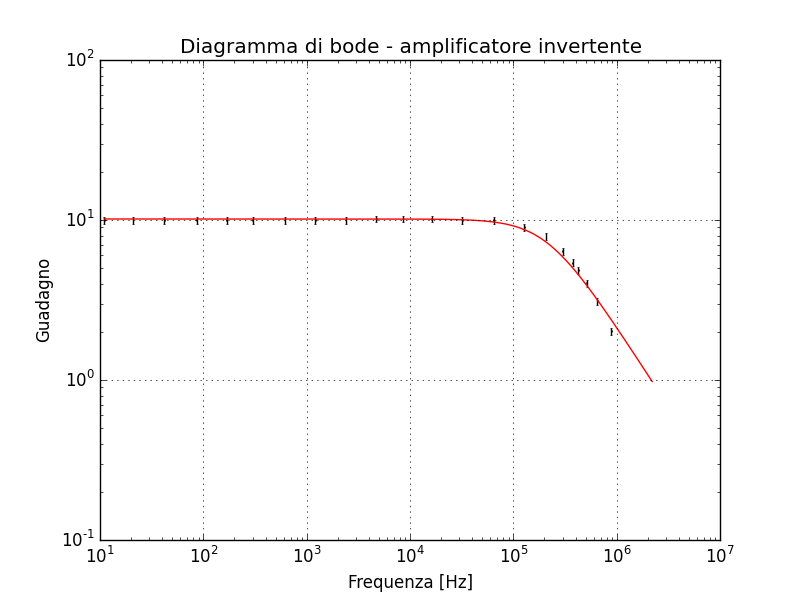
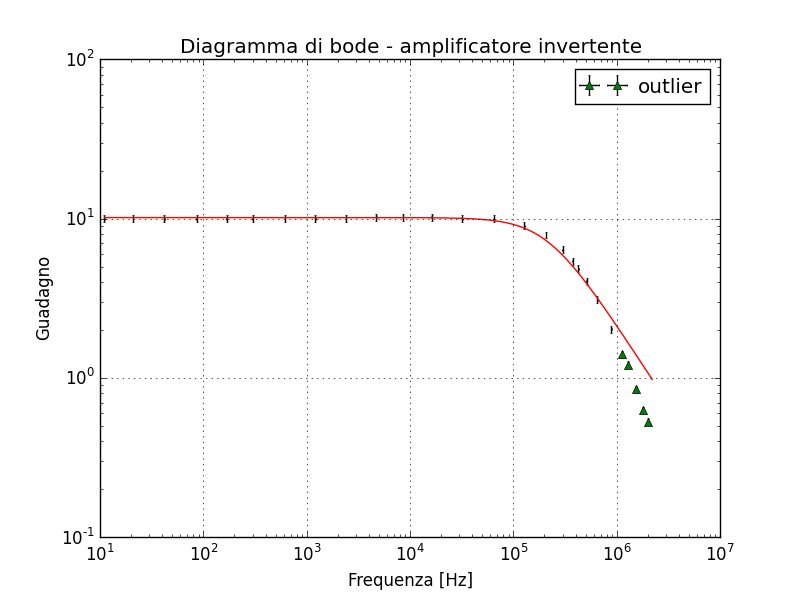
stocazzo allo stocazzo

diff --git a/Esercitazione6/relazione/Relazione6.tex b/Esercitazione6/relazione/Relazione6.tex
@@ -77,7 +77,7 @@ I dati mostrano un chiaro comportamento lineare fino a tensioni in ingresso di $
 Il guadagno misurato è compatibile con quello atteso dalla teoria ($|A_v|^{exp} = 9.96 \pm 0.13$) a meno di $2\sigma$.
 \begin{figure}[h!]
 	\centering
-	\includegraphics[width=0.8\textwidth]{../grafici/fit_inv_amp_gain.pdf}
+	\includegraphics[width=0.85\textwidth]{../grafici/fit_inv_amp_gain.pdf}
 	\caption{Guadagno amplificatore invertente}
 	\label{fig:inv_amp_gain}
 \end{figure}
@@ -95,23 +95,47 @@ Si è proceduto alla misura della resistenza di ingresso, per farlo si è posta 
 L'impedenza di ingresso misurata è quindi $R_{IN}=\unit{10.0 \pm 1.0}{k\ohm}$, ampiamente compatibile con quella attesa pari a $R_1$.
 
 \subsection{Risposta in frequenza}
-Si è fittata la risposta in frequenza dell'amplificatore invertente. Si riportano i dati relativi in \tablename{\ref{tab:inv_amp_f_domain}}, in appendice, e il grafico relativo in \figurename{\ref{fig:invamp}}, mostrato di seguito:
+Si è studiata quindi la risposta in frequenza del circuito, per una tensione picco-picco in ingresso pari a $V = \unit{496 \pm 12}{\milli\volt}$. I dati acquisiti sono riportati in appendice in \tablename{\ref{tab:inv_amp_f_domain}}.
+
+Dal grafico in \figurename{\ref{palle}} è chiaro che il guadagno è costante fino ad un frequenza di $\sim \unit{200}{k\hertz}$, da questo punto in poi il guadagno sembra calare linearmente con un tasso di $\sim \unit{20}{\deci\bel /decade}$ per un primo tratto fino a $f \sim {600}{k\hertz}$, per frequenze superiori la pendenza sembra aumentare.
+
+Si è provato a fittare questo comportamento (il grafico del fit è riportato in \figurename{\ref{rette}}), le pendenze fittate sono state $p_1 = \unit{-20.1 \pm 1.8}{\deci\bel/decade}$ per il primo tratto e $p_2 =\unit{-33.3 \pm 1.2}{\deci\bel/decade}$ per il secondo tratto.
 
 \begin{figure}[h!]
 	\centering
-	\includegraphics[width=0.5\textwidth]{../grafici/fit_inv_amp_f_domain.pdf}
-	\caption{Grafico del fit }
-	\label{fig:invamp}
+	\includegraphics[width=0.8\textwidth]{../grafici/fit_rette.pdf}
+	\caption{fit del guadagno per alte frequenze}
+	\label{rette}
 \end{figure}
 
+Si è deciso quindi di fittare la risposta in frequenza dell'amplificatore invertente con il modello di un filtro passa basso escludendo i dati presi a frequenze sopra $\sim \unit{600}{k\hertz}$ che come visto prima non rispettano la legge di decrescita attesa.  Si riportano di seguito i risultati del fit e il grafico.
+
+\begin{table}[h!]
+	\centering
+	\begin{tabular}{ccc}
+	$|A_v| = 10.15 \pm 0.13$	&	$f_0 = \unit{214 \pm 6}{k\hertz}$	&	$\chi^2/ndof = 23 / 20$\\
+	\end{tabular}
+\end{table}
+
+\begin{figure}[h!]
+	\centering
+	\includegraphics[width=0.8\textwidth]{../grafici/fit_inv_amp_f_domain.pdf}
+	\caption{Grafico dei dati e del fit}
+	\label{palle}
+\end{figure}
+
+Il guadagno di centro banda fittato è compatibile con quello atteso dalla teoria e con quello misurato al punto precedente.
+L'andamento ad alte frequenze è probabilmente influenzato dallo slew rate che in questo range distorce significativamente il segnale.
+\pagebreak
 \subsection{Slew rate}
-Si è misurato lo slew rate dell'opamp inviando in ingresso un'onda quadra di frequenza $\unit{1000 \pm 10}{\hertz}$, ottenendo una discesa pari a  $\Delta V = \unit{9.44 \pm 0.24}$ in un tempo $\Delta t = \unit{740 \pm 7}{\nano\second}$.
+Si è misurato lo slew rate dell'op-amp inviando in ingresso un'onda quadra di frequenza $\unit{1000 \pm 10}{\hertz}$, ottenendo una discesa pari a  $\Delta V = \unit{9.44 \pm 0.24}{\volt}$ in un tempo $\Delta t = \unit{740 \pm 7}{\nano\second}$.
 
 Lo slew rate misurato è quindi pari a $\unit{12.8 \pm 0.3}{\volt/\micro\second}$, mentre il datasheet riporta un valore tipico di $\unit{13}{\volt/\micro\second}$.
 
 %gli errori sulle frequenze li abbiamo messi sempre all'1%?
 
 \section{Amplificatore non invertente}
+
 Si è montato l'amplificatore non invertente in \figurename{\ref{circuito_non_inv}} con i seguenti valori dei componenti:
 
 \begin{table}[h!]
@@ -121,7 +145,29 @@ Si è montato l'amplificatore non invertente in \figurename{\ref{circuito_non_in
 	\end{tabular}
 \end{table}
 
-Si sono misurati al variare della posizione del potenziometro il guadagno (a basse frequenze $f < \unit{100}{\hertz}$, dove sicuramente l'amplificatore è in regime lineare) e la frequenza di taglio superiore. I dati acquisiti sono riportati in appendice in \tablename{\ref{tab:gain_bandwidth}}
+Si sono misurati al variare della posizione del potenziometro il guadagno (misurato a basse frequenze $f < \unit{100}{\hertz}$, dove sicuramente l'amplificatore è in regime lineare) e la frequenza di taglio superiore. I dati acquisiti sono riportati in appendice in \tablename{\ref{tab:gain_bandwidth}}. Per verificare che il prodotto banda-guadagno rimanesse costante si è fittato con una retta il guadagno (in decibel) in funzione del logaritmo della frequenza. I risultati e i grafici del fit sono riportati di seguito (a è il coefficiente angolare e b l'intercetta):
+
+\begin{table}[h!]
+	\centering
+	\begin{tabular}{ccc}
+		$a = \unit{-20.49 \pm 0.18}{\deci\bel /decade}$  &  $b = \unit{128.8 \pm 0.8}{\deci\bel}$ & $\chi^2/ndof= 14.8 / 13$
+	\end{tabular}
+\end{table}
+
+\begin{figure}[h!]
+	\centering
+	\includegraphics[width=0.8\textwidth]{../grafici/fit_gain_bandwidth.pdf}
+	\caption{Grafico e fit banda-guadagno}
+\end{figure}
+
+Il prodotto banda guadagno, ovvero l'intersezione della retta fittata con l'asse a $\unit{0}{\deci\bel}$ varrà perciò\footnote{propagando l'errore tenendo conto della covarianza}: $Af_h=\unit{1.93\pm0.12}{\mega\hertz}$, che è compatibile con il grafico presente nel datasheet riportato in \figurename{\ref{fig:open_loop_stocazzo}}.
+
+\begin{figure}[h!]
+	\centering
+	\includegraphics[width=0.4\textwidth]{../grafici/open_loop_frequency.jpg}
+	\caption{Grafico guadagno-banda dal datasheet}
+	\label{fig:open_loop_stocazzo}
+\end{figure}
 
 \section{Circuito integratore}
 
@@ -159,7 +205,7 @@ Si riportano nella tabella di seguito i risultati del fit:
 \centering
 \begin{tabular}{c|ccc}
 amplitude	&	$A_0 = 9.71 \pm 0.22$	&	$f_0 = \unit{404 \pm 12}{\hertz}$	&	$\chi^2/ndof = 15.6 / 12$\\
-phase		& &	$f_0 = \unit{350 \pm 40}{\hertz}$	&	$\chi^2/ndof = 10.7 / 12$
+phase		& &	$f_0 = \unit{350 \pm 40}{\hertz}$	&	$\chi^2/ndof = 10.7 / 13$
 \end{tabular}
 \end{table}
 
@@ -170,7 +216,7 @@ phase		& &	$f_0 = \unit{350 \pm 40}{\hertz}$	&	$\chi^2/ndof = 10.7 / 12$
 \item $f_0$ è la frequenza di taglio dell'integratore.
 \end{itemize}
 
-Si nota dunque che le due misure della frequenza di taglio sono compatibili, a meno di poco più di $1\sigma$.
+Si nota dunque che le due misure della frequenza di taglio sono compatibili, a meno di $\sim 1\sigma$.
 
 \subsection{Risposta all'onda quadra}
 

diff --git a/Esercitazione6/Esercitazione6.py b/Esercitazione6/Esercitazione6.py
@@ -28,7 +28,7 @@ Ylab="Tensione di output $V_{OUT}$ [$V$]"
 
 tab=["$V_{IN}$ [$V$]","$V_{OUT}$ [$V$]"]
 
-fit(dir,file,unit,f,p0,titolo,Xlab,Ylab,XYfun,table=True,tab=tab, out=True)
+#fit(dir,file,unit,f,p0,titolo,Xlab,Ylab,XYfun,table=True,tab=tab, out=True)
 
 ###########################################################################
 
@@ -55,7 +55,7 @@ Ylab="Guadagno"
 tab=["Frequenza [Hz]","$V_{OUT}$ [$V$]"]
 xlimp=[100,110]
 
-#fit(dir,file,unit,f,p0,titolo,Xlab,Ylab,XYfun,table=True,tab=tab, Xscale="log",Yscale="log",xlimp=xlimp,out=True)
+fit(dir,file,unit,f,p0,titolo,Xlab,Ylab,XYfun,table=True,tab=tab, Xscale="log",Yscale="log",xlimp=xlimp,out=True)
 
 ###########################################################################
 
@@ -75,13 +75,13 @@ def XYfun(a):
 
 unit=["tempo_osc","volt_osc_nocal"]
 
-titolo="Diagramma di Bode"
+titolo="Andamento ad alte frequenze"
 Xlab="Frequenza [decadi]"
 Ylab="Guadagno $A_v$ [dB]"
 
 tab=["Frequenza [Hz]","$V_{OUT}$ [$V$]"]
 
-#fit(dir,file,unit,f,p0,titolo,Xlab,Ylab,XYfun,xlimp=[98,101],fig=fig)
+fit(dir,file,unit,f,p0,titolo,Xlab,Ylab,XYfun,xlimp=[98,101],fig=fig)
 
 ###########################################################################
 
@@ -101,13 +101,13 @@ def XYfun(a):
 
 unit=["tempo_osc","volt_osc_nocal"]
 
-titolo="Diagramma di Bode"
+titolo="Andamento ad alte frequenze"
 Xlab="Frequenza [decadi]"
 Ylab="Guadagno $A_v$ [dB]"
 
 tab=["Frequenza [Hz]","$V_{OUT}$ [$V$]"]
 
-#fit(dir,file,unit,f,p0,titolo,Xlab,Ylab,XYfun,xlimp=[99,102],fig=fig)
+fit(dir,file,unit,f,p0,titolo,Xlab,Ylab,XYfun,xlimp=[99,102],fig=fig)
 
 ###########################################################################
 
@@ -205,7 +205,7 @@ Ylab="Guadagno"
 
 tab=["Frequenza [Hz]","$V_{IN}$ [$V$]","$V_{OUT}$ [$V$]","Sfasamento [s]"]
 
-#fit(dir,file,unit,f,p0,titolo,Xlab,Ylab,XYfun,table=True,tab=tab, Xscale="log",Yscale="log",fig=fig)
+fit(dir,file,unit,f,p0,titolo,Xlab,Ylab,XYfun,table=True,tab=tab, Xscale="log",Yscale="log",fig=fig)
 
 ###########################################################################
 
@@ -216,7 +216,7 @@ fig="phase_high_pass"
 def f(x, a, b):
     return (-arctan(a/x)-arctan(b/x)+pi/2) + pi
 
-p0=[3.56e+03, 2e+05]
+p0=[4e+03, 3e+05]
 
 def XYfun(a):
     return a[0], 2*pi*a[3]*a[0]
@@ -227,6 +227,6 @@ titolo="Diagramma di bode - derivatore"
 Xlab="Frequenza [Hz]"
 Ylab="Fase [rad]"
 
-#fit(dir,file,unit,f,p0,titolo,Xlab,Ylab,XYfun, Xscale="log", fig=fig,out=True)
+fit(dir,file,unit,f,p0,titolo,Xlab,Ylab,XYfun, Xscale="log", fig=fig,out=True)
 
 ###########################################################################

diff --git a/analyzer.py b/analyzer.py
@@ -940,7 +940,6 @@ def fit(directory, file, units, f, p0, titolo="", Xlab="", Ylab="", XYfun=XYfunc
 	else:
 		smin = min(X)
 		smax = max(X)
-		
 	#
 	if Xscale=="log":
 		l=logspace(log10(smin)*xlima[0],log10(smax*xlima[1]),1000)
@@ -966,7 +965,7 @@ def fit(directory, file, units, f, p0, titolo="", Xlab="", Ylab="", XYfun=XYfunc
 
 		if out ==True:
 			plot(X_ol, (Y_ol-f(X_ol,*par))/dY_ol, "^", color="green")
-			
+		
 	savefig(directory+"grafici/fit_"+fig+".pdf")
 	savefig(directory+"grafici/fit_"+fig+".png")
 	#Calcolo chi, errori e normalizzo la matrice di cov
